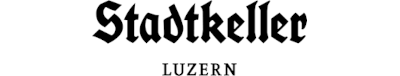
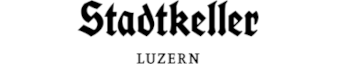
feat: 🎸 Ads

diff --git a/src/components/header.js b/src/components/header.js
@@ -31,7 +31,7 @@ const Header = ({ basket }) => {
           node {
             name
             childImageSharp {
-              gatsbyImageData(quality: 80)
+              gatsbyImageData(quality: 100)
             }
           }
         }

diff --git a/src/components/ad-carousel.css b/src/components/ad-carousel.css
@@ -1,6 +1,6 @@
 .slick-slider {
-  height: 74px !important;
-  width: 400px !important;
+  height: 64px !important;
+  width: 337px !important;
 }
 
 .slick-next,
